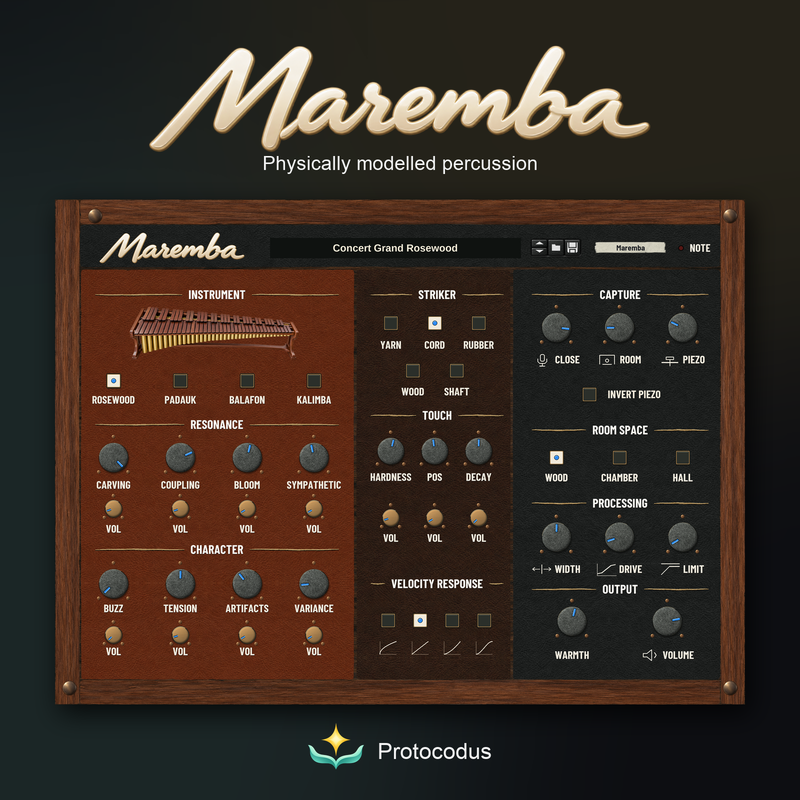
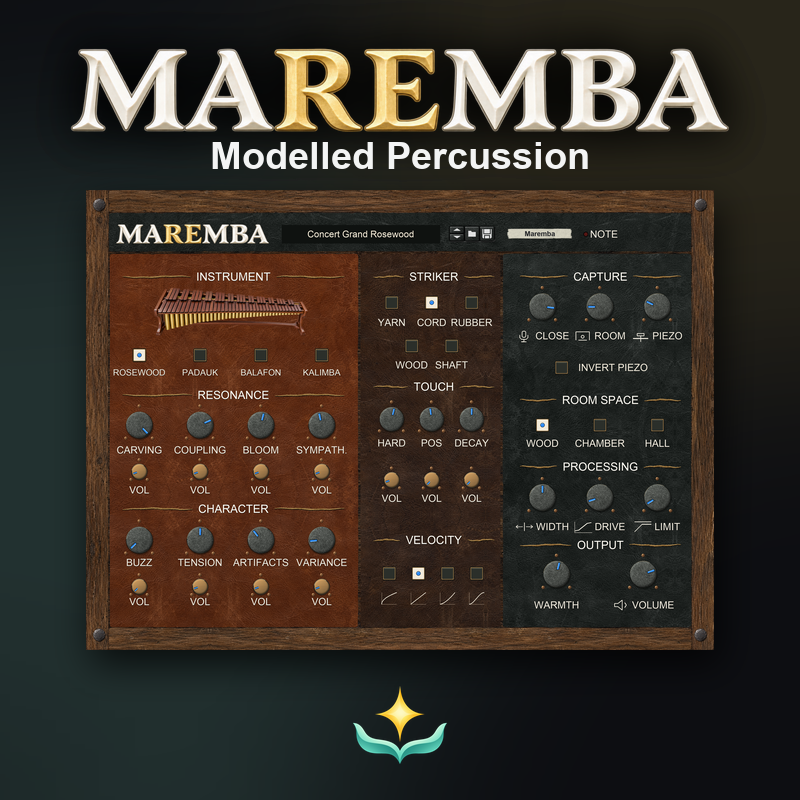
Refresh Maremba thumbnail branding and product social covers
Entire-Checkpoint: 1bb366d5c9cf

diff --git a/product/electry/index.html b/product/electry/index.html
@@ -11,10 +11,10 @@
   <meta property="og:description" content="A physically modelled eight-string Drop-E guitar Rack Extension for Reason. Detailed string, hand, bridge and pickup models, seven articulations and direct guitar output.">
   <meta property="og:type" content="website">
   <meta property="og:url" content="https://protocodus.cz/product/electry/">
-  <meta property="og:image" content="https://protocodus.cz/product/electry/electry-rack-front.webp?v=20261103-dsp-refresh">
+  <meta property="og:image" content="https://protocodus.cz/product/electry/Electry_Thumbnail_800.png?v=20261103-dsp-refresh">
   <meta property="og:image:width" content="754">
   <meta property="og:image:height" content="621">
-  <meta property="og:image:alt" content="Electry Rack Extension front panel with eight-string fretboard, pickup, touch and performance controls">
+  <meta property="og:image:alt" content="Electry by Protocodus, modelled instrument cover">
   <link rel="canonical" href="https://protocodus.cz/product/electry/">
   <link rel="icon" type="image/svg+xml" href="/assets/images/favicon.svg?v=20260911">
   <link rel="preload" href="/assets/fonts/space-grotesk-latin.woff2" as="font" type="font/woff2" crossorigin>

diff --git a/product/maremba/index.html b/product/maremba/index.html
@@ -11,7 +11,7 @@
   <meta property="og:description" content="Four physically modelled instruments for the Reason rack. Rolls, damping, buzzing membranes, seven tuning choices and independently calibrated capture outputs.">
   <meta property="og:type" content="website">
   <meta property="og:url" content="https://protocodus.cz/product/maremba/">
-  <meta property="og:image" content="https://protocodus.cz/product/maremba/maremba-panel.webp?v=20261103-dsp-refresh">
+  <meta property="og:image" content="https://protocodus.cz/product/maremba/Maremba_Thumbnail_800.png?v=20261103-dsp-refresh">
   <link rel="canonical" href="https://protocodus.cz/product/maremba/">
   <link rel="icon" type="image/svg+xml" href="/assets/images/favicon.svg?v=20260911">
   <link rel="preload" href="/assets/fonts/space-grotesk-latin.woff2" as="font" type="font/woff2" crossorigin>
